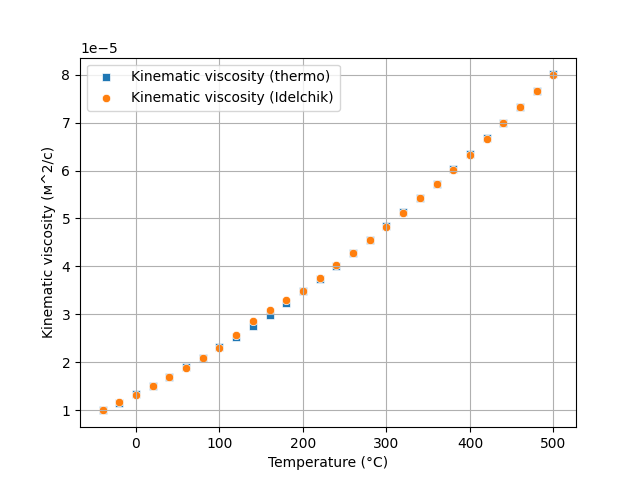
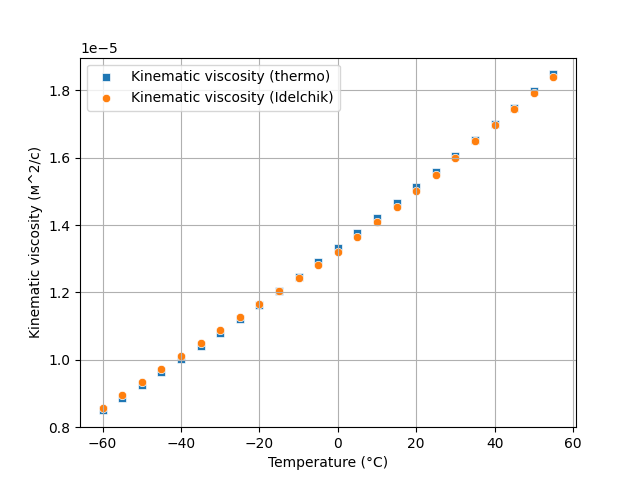
add tests for thermophysics

diff --git a/tests/test_thermophysical.py b/tests/test_thermophysical.py
@@ -1,0 +1,68 @@
+import unittest
+from physics.thermophysical import (
+    kinematic_viscosity_idelchik,
+    kinematic_viscosity_thermo,
+    density_mendeleev,
+    density_thermo,
+)
+
+
+class TestThermophysical(unittest.TestCase):
+    def test_kinematic_viscosity_thermo(self):
+        """
+        Проверка значения кинематической вязкости по thermo
+        """
+        result = kinematic_viscosity_thermo(t=0)
+        self.assertAlmostEqual(result, 1.32e-5, places=2)
+
+    def test_kinematic_viscosity_idelchik(self):
+        """
+        Проверка значения кинематической вязкости по Идельчик
+        """
+        result = kinematic_viscosity_thermo(t=0)
+        self.assertAlmostEqual(result, 1.32e-5, places=2)
+
+    def test_density_thermo(self):
+        """
+        Проверка значения плотности по thermo
+        """
+        result = density_thermo(t=0)
+        self.assertAlmostEqual(result, 1.294, places=2)
+
+    def test_density_mendeleev(self):
+        """
+        Проверка значения плотности по Менделееву
+        """
+        result = density_mendeleev(t=0)
+        self.assertAlmostEqual(result, 1.294, places=2)
+
+    def test_nu_extra_up(self):
+        """
+        Проверка значения плотности по Менделееву
+        (экстраполяция вверх)
+        """
+        t = 850
+        result = kinematic_viscosity_idelchik(t)
+        self.assertAlmostEqual(result, kinematic_viscosity_thermo(t), places=2)
+
+    def test_nu_extra_down(self):
+        """
+        Проверка значения плотности по Менделееву
+        (экстраполяция вниз)
+        """
+        t = -41
+        result = kinematic_viscosity_idelchik(t)
+        self.assertAlmostEqual(result, kinematic_viscosity_thermo(t), places=2)
+
+    def test_nu_extra_down_assert(self):
+        """
+        Проверка, что срабатывает предел экстраполяции
+        (экстраполяция вниз)
+        """
+        t = -61
+        with self.assertRaises(AssertionError):
+            kinematic_viscosity_idelchik(t)
+
+
+if __name__ == "__main__":
+    unittest.main()

diff --git a/tests/test_duct.py b/tests/test_duct.py
@@ -35,6 +35,15 @@ class TestDuct(unittest.TestCase):
         )
         self.assertAlmostEqual(result, 12.06, places=1)
 
+    def test_pressure_loss_square(self):
+        """
+        Проверка примера из AeroCalc.py
+        """
+        result = duct(
+            flow=1000, length=1.0, temperature=-25, height=0.3, width=0.3, roughness=0.001
+        )
+        self.assertAlmostEqual(result, 0.63, places=2)
+
     def test_assert_errors(self):
         with self.assertRaises(AssertionError):
             """Проверка выдачи assert если не указана ширина воздуховода"""

diff --git a/physics/thermophysical.py b/physics/thermophysical.py
@@ -71,7 +71,7 @@ def kinematic_viscosity_idelchik(t):
     """
 
     # Настройка, насколько далеко можно экстраполировать от данных
-    extrapolation_max_factor = 1.0
+    extrapolation_max_factor = 2.0
 
     # Чтение данных из CSV
     with open("./data/kinematic_viscosity.csv", newline="") as csvfile:

diff --git a/analytics/kinematic_viscosity_plot.py b/analytics/kinematic_viscosity_plot.py
@@ -5,7 +5,7 @@ import seaborn as sns
 import numpy as np
 
 # Define temperature range and step
-temperatures = np.arange(-40, 501, 20)
+temperatures = np.arange(-60, 60, 5)
 
 # Calculate viscosity using kinematic_viscosity_idelchik and kinematic_viscosity_thermo
 kinematic_viscosity_thermo = [kinematic_viscosity_thermo(t) for t in temperatures]
